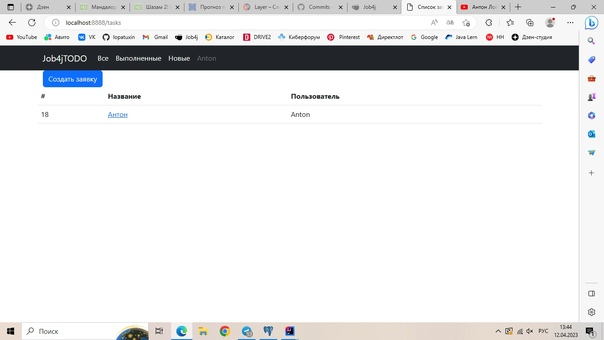
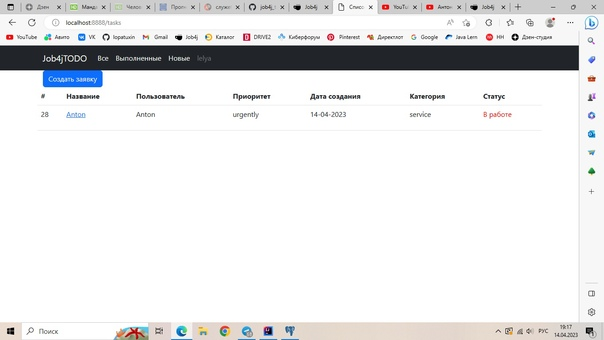
5. Date [#331992]

diff --git a/src/main/resourсes/templates/tasks/list.html b/src/main/resourсes/templates/tasks/list.html
@@ -39,6 +39,9 @@
                     <th scope="col">Название</th>
                     <th scope="col">Пользователь</th>
                     <th scope="col">Приоритет</th>
+                    <th scope="col">Дата создания</th>
+                    <th scope="col">Категория</th>
+                    <th scope="col">Статус</th>
                 </tr>
                 </thead>
                 <tbody>
@@ -47,6 +50,14 @@
                     <td><a th:text="${task.title}" th:href="@{/tasks/{taskId}(taskId=${task.id})}"></a></td>
                     <td th:text="${task.user.name}"/>
                     <td th:text="${task.priority.name}"/>
+                    <td th:text="${#temporals.format(task.created, 'dd-MM-yyyy')}"/>
+                    <td>
+                        <span th:each="category: ${task.categories}">
+                            <p th:text="${category.name}"></p>
+                        </span>
+                    </td>
+                    <td th:if="${task.done}" style="color: Green">Выполнено</td>
+                    <td th:if="${!task.done}" style="color: Red">В работе</td>
                 </tr>
                 </tbody>
             </table>

diff --git a/src/main/resourсes/templates/tasks/update.html b/src/main/resourсes/templates/tasks/update.html
@@ -41,6 +41,21 @@
                 <label for="description" class="form-label"><b>Описание</b></label>
                 <textarea class="form-control" id="description" name="description" th:field="*{description}" rows="25" placeholder="Опишите заявку"></textarea>
             </div>
+            <div class="mb-3">
+                <label for="priority"><b>Приоритет</b></label>
+                <select class="form-control" id="priority" name="priority.id">
+                    <option th:each="priority : ${priorities}" th:value="${priority.id}"
+                            th:text="${priority.name}"></option>
+                </select>
+            </div>
+            <div class="mb-3">
+                <label for="category"><b>Категория</b></label>
+                <select class="form-control" id="category" name="category.id" multiple="multiple">
+                    <option th:each="category : ${categories}" th:value="${category.id}"
+                            th:text="${category.name}">
+                    </option>
+                </select>
+            </div>
             <div class="mb-3 row">
                 <div class="col-6"></div>
                 <div class="col-6">

diff --git a/src/main/java/ru/job4j/controller/TaskController.java b/src/main/java/ru/job4j/controller/TaskController.java
@@ -10,6 +10,8 @@ import ru.job4j.services.CategoryService;
 import ru.job4j.services.PriorityService;
 import ru.job4j.services.TaskService;
 
+import java.util.List;
+
 import static ru.job4j.util.TimezoneConverter.setTimeZone;
 
 @Controller
@@ -52,8 +54,11 @@ public class TaskController {
     }
 
     @PostMapping("/create")
-    public String create(@ModelAttribute Task task, Model model, @SessionAttribute User user) {
+    public String create(@ModelAttribute Task task, Model model, @SessionAttribute User user,
+                         @RequestParam("category.id") List<Integer> categoryList) {
         task.setUser(user);
+        var categories = categoryService.findById(categoryList);
+        task.setCategories(categories);
         var result = service.add(task);
         if (result == null) {
             model.addAttribute("message", "Не удалось добавить заявку");
@@ -95,6 +100,8 @@ public class TaskController {
     @GetMapping("/update/{id}")
     public String getUpdatePage(@PathVariable int id, Model model) {
         var taskOptional = service.findById(id);
+        model.addAttribute("priorities", priorityService.findAll());
+        model.addAttribute("categories", categoryService.findAll());
         if (taskOptional.isEmpty()) {
             model.addAttribute("message", "Заявка с указанным идентификатором не найдена");
             return "errors/404";

diff --git a/src/main/java/ru/job4j/repository/HbmTaskRepository.java b/src/main/java/ru/job4j/repository/HbmTaskRepository.java
@@ -3,7 +3,6 @@ package ru.job4j.repository;
 import lombok.AllArgsConstructor;
 import org.springframework.stereotype.Repository;
 import ru.job4j.model.Task;
-import ru.job4j.model.User;
 
 import java.util.List;
 import java.util.Map;
@@ -47,8 +46,8 @@ public class HbmTaskRepository implements TaskRepository {
 
     @Override
     public Optional<Task> findById(int id) {
-        return repository.optional("from Task t JOIN FETCH t.priority where t.id = :tId", Task.class,
-                Map.of("tId", id));
+        return repository.optional("FROM Task AS t JOIN FETCH t.categories " +
+                "JOIN FETCH t.priority where t.id = :fId", Task.class, Map.of("fId", id));
     }
 
     @Override

diff --git a/src/main/java/ru/job4j/repository/CategoryRepository.java b/src/main/java/ru/job4j/repository/CategoryRepository.java
@@ -5,13 +5,21 @@ import org.springframework.stereotype.Repository;
 import ru.job4j.model.Category;
 
 import java.util.Collection;
+import java.util.List;
+import java.util.Map;
 
 @Repository
 @AllArgsConstructor
 public class CategoryRepository {
     private final CrudRepository repository;
 
-    public Collection<Category> findAll() {
+    public List<Category> findAll() {
         return repository.query("FROM Category", Category.class);
+    }
+
+    public List<Category> findById(List<Integer> list) {
+        return repository.query("FROM Category WHERE id in :fId",
+                Category.class, Map.of("fId", list)
+        );
     }
 }

diff --git a/src/main/java/ru/job4j/services/CategoryService.java b/src/main/java/ru/job4j/services/CategoryService.java
@@ -5,14 +5,20 @@ import org.springframework.stereotype.Service;
 import ru.job4j.model.Category;
 import ru.job4j.repository.CategoryRepository;
 
-import java.util.Collection;
+import javax.annotation.concurrent.ThreadSafe;
+import java.util.List;
 
 @Service
 @AllArgsConstructor
+@ThreadSafe
 public class CategoryService {
     private final CategoryRepository repository;
 
-    public Collection<Category> findAll() {
+    public List<Category> findAll() {
         return repository.findAll();
+    }
+
+    public List<Category> findById(List<Integer> list) {
+        return repository.findById(list);
     }
 }

diff --git a/src/main/java/ru/job4j/util/TimezoneConverter.java b/src/main/java/ru/job4j/util/TimezoneConverter.java
@@ -1,12 +1,14 @@
 package ru.job4j.util;
 
+import lombok.AccessLevel;
+import lombok.NoArgsConstructor;
 import ru.job4j.model.Task;
 import ru.job4j.model.User;
 
 import java.time.ZoneId;
 import java.util.TimeZone;
-
-public class TimezoneConverter {
+@NoArgsConstructor(access = AccessLevel.PRIVATE)
+public final class TimezoneConverter {
     public static void setTimeZone(Task task, User user) {
         var defTz = TimeZone.getDefault().toZoneId();
         var userTimeZone = ZoneId.of(user.getTimezone());

diff --git a/src/main/java/ru/job4j/model/Task.java b/src/main/java/ru/job4j/model/Task.java
@@ -1,7 +1,9 @@
 package ru.job4j.model;
 
+import lombok.AllArgsConstructor;
 import lombok.Data;
 import lombok.EqualsAndHashCode;
+import lombok.NoArgsConstructor;
 
 import javax.persistence.*;
 import java.time.LocalDateTime;
@@ -12,6 +14,8 @@ import java.util.List;
 @Table(name = "tasks")
 @Data
 @EqualsAndHashCode(onlyExplicitlyIncluded = true)
+@AllArgsConstructor
+@NoArgsConstructor
 public class Task {
     @Id
     @GeneratedValue(strategy = GenerationType.IDENTITY)

diff --git a/src/main/java/ru/job4j/model/Category.java b/src/main/java/ru/job4j/model/Category.java
@@ -1,13 +1,17 @@
 package ru.job4j.model;
 
+import lombok.AllArgsConstructor;
 import lombok.Data;
 import lombok.EqualsAndHashCode;
+import lombok.NoArgsConstructor;
 
 import javax.persistence.*;
 
 @Data
 @Entity
 @Table(name = "categories")
+@AllArgsConstructor
+@NoArgsConstructor
 public class Category {
     @Id
     @GeneratedValue(strategy = GenerationType.IDENTITY)

diff --git a/src/main/java/ru/job4j/services/SimpleTaskService.java b/src/main/java/ru/job4j/services/SimpleTaskService.java
@@ -6,11 +6,13 @@ import ru.job4j.model.Task;
 import ru.job4j.model.User;
 import ru.job4j.repository.TaskRepository;
 
+import javax.annotation.concurrent.ThreadSafe;
 import java.util.List;
 import java.util.Optional;
 
 @Service
 @AllArgsConstructor
+@ThreadSafe
 public class SimpleTaskService implements TaskService {
     private final TaskRepository repository;
 

diff --git a/README.md b/README.md
@@ -32,6 +32,15 @@ ___
 ## Начальная страница
 
 <image src="/picture.jpg" alt="Начальная страница"></image>
+
+## Страница изменения заявки
+<image src="/pictures1.jpg" alt="Страница изменения заявки"></image>
+
+## Страница создания заявки
+<image src="/picture2.jpg" alt="Страница создания заявки"></image>
+
+## Страница входа
+<image src="/pictures3.jpg" alt="Страница входа"></image>
 ___
 ### Автор
 https://vk.com/lopatuxin
